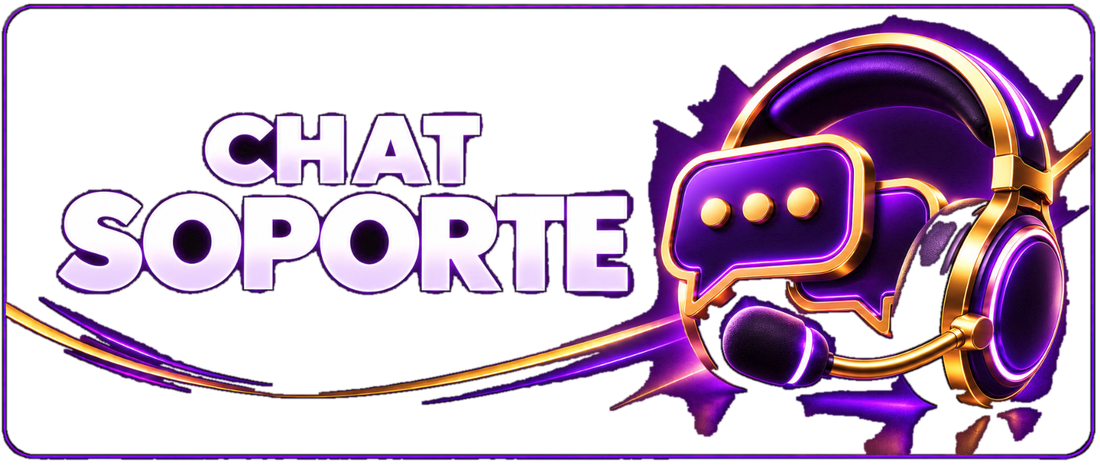
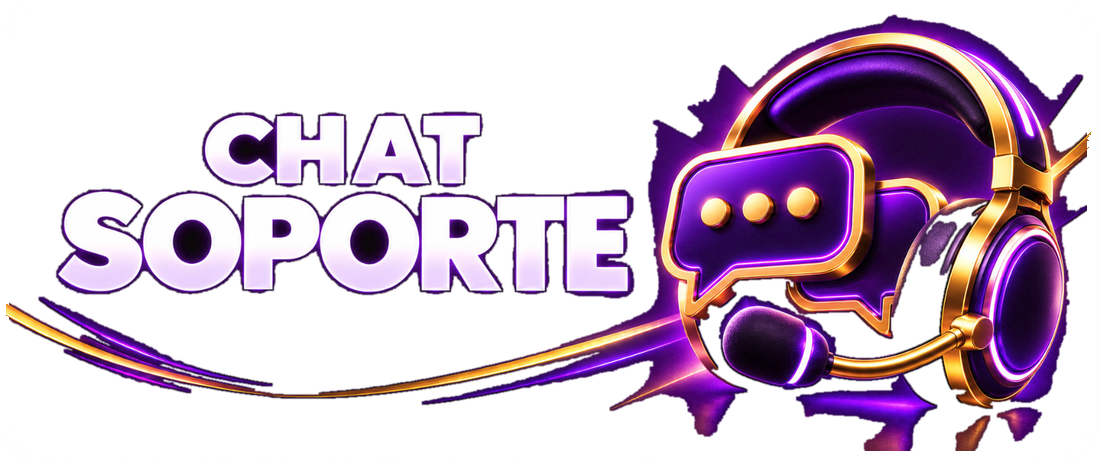
Remove the baked chat frame and match the load outline.

Changed region(s): [[0.0, 0.0, 1.0, 0.9935]]

diff --git a/public/external-chat-widget.js b/public/external-chat-widget.js
@@ -67,9 +67,9 @@
     .home-action.charge-image{flex:0 0 auto;align-self:center;width:65%;min-height:0;aspect-ratio:1933/813;padding:0;overflow:hidden;border:2px solid #d7a4ef;border-radius:14px;background:#120916;box-shadow:0 0 0 1px #6a3484,0 8px 18px #0007}
     .home-action.charge-image img{display:block;width:100%;height:100%;object-fit:contain}
     .home-action.charge-image:hover{border-color:#f0c8ff;background:#120916;box-shadow:0 0 0 1px #a85ad4,0 8px 18px #0007;filter:brightness(1.08)}
-    .home-action.chat-art{flex:0 0 auto;align-self:center;width:65%;min-height:0;gap:0;padding:0;overflow:hidden;border:0;border-radius:16px;background:transparent;box-shadow:none}
-    .home-action.chat-art img{display:block;width:100%;height:auto}
-    .home-action.chat-art:hover{transform:translateY(-1px);border-color:transparent;background:transparent;box-shadow:none;filter:brightness(1.08)}
+    .home-action.chat-art{flex:0 0 auto;align-self:center;width:65%;min-height:0;aspect-ratio:1100/465;gap:0;padding:0;overflow:hidden;border:2px solid #d7a4ef;border-radius:14px;background:#120916;box-shadow:0 0 0 1px #6a3484,0 8px 18px #0007}
+    .home-action.chat-art img{display:block;width:100%;height:100%;object-fit:contain}
+    .home-action.chat-art:hover{transform:translateY(-1px);border-color:#f0c8ff;background:#120916;box-shadow:0 0 0 1px #a85ad4,0 8px 18px #0007;filter:brightness(1.08)}
     .home-action:focus-visible,.chat-back:focus-visible{outline:2px solid #edc5ff;outline-offset:3px}
     .home-action-mark{display:grid;place-items:center;flex:0 0 38px;width:38px;height:38px;border:1px solid #8542a0;border-radius:12px;background:#291633;color:#dfa9f3;box-shadow:inset 0 1px #ffffff12}
     .home-action-mark svg{width:20px;height:20px}
